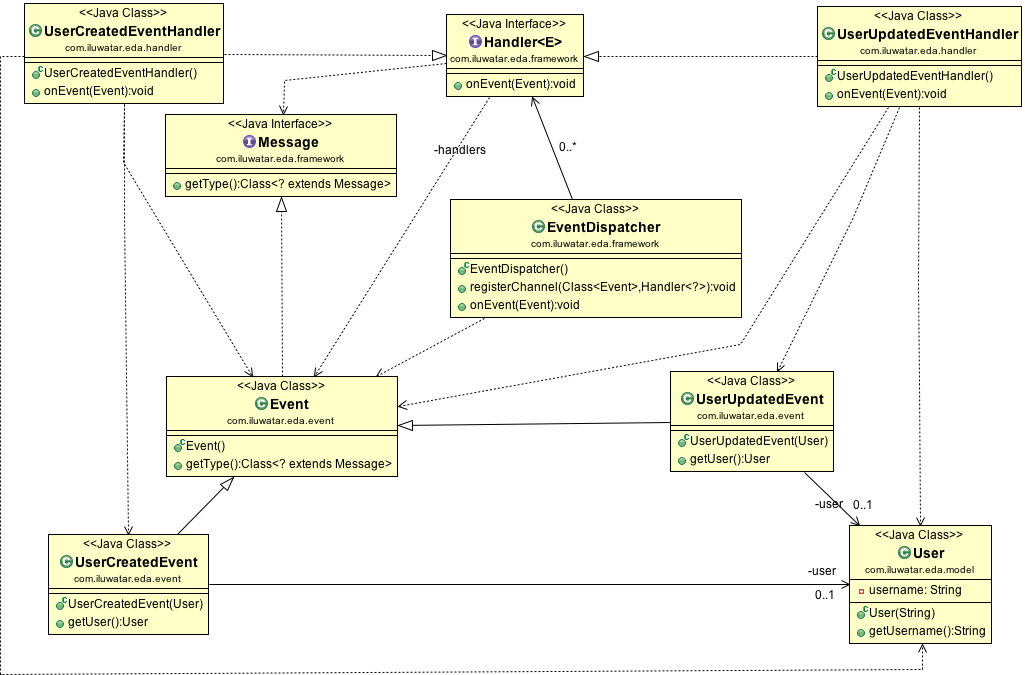
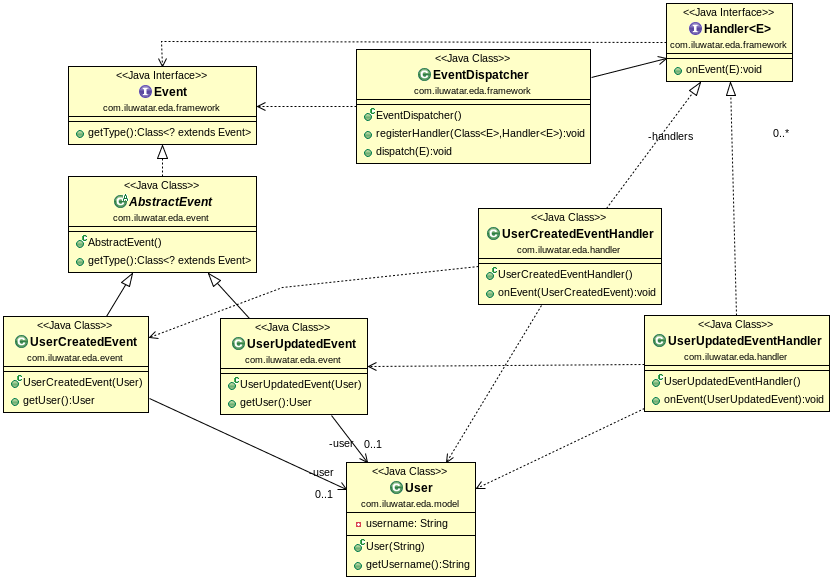
Event driven architecture refactored. 1. Renamed Message to Event and Event to AbstractEvent 2. Generified Event and Handler 3. Updated EventDispatcher to make unsafe configuration impossible 4. Updated UML diagram accordingly

diff --git a/event-driven-architecture/src/test/java/com/iluwatar/eda/framework/EventDispatcherTest.java b/event-driven-architecture/src/test/java/com/iluwatar/eda/framework/EventDispatcherTest.java
@@ -22,7 +22,6 @@
  */
 package com.iluwatar.eda.framework;
 
-import com.iluwatar.eda.framework.EventDispatcher;
 import com.iluwatar.eda.event.UserCreatedEvent;
 import com.iluwatar.eda.event.UserUpdatedEvent;
 import com.iluwatar.eda.handler.UserCreatedEventHandler;
@@ -49,8 +48,8 @@ public class EventDispatcherTest {
     EventDispatcher dispatcher = spy(new EventDispatcher());
     UserCreatedEventHandler userCreatedEventHandler = spy(new UserCreatedEventHandler());
     UserUpdatedEventHandler userUpdatedEventHandler = spy(new UserUpdatedEventHandler());
-    dispatcher.registerChannel(UserCreatedEvent.class, userCreatedEventHandler);
-    dispatcher.registerChannel(UserUpdatedEvent.class, userUpdatedEventHandler);
+    dispatcher.registerHandler(UserCreatedEvent.class, userCreatedEventHandler);
+    dispatcher.registerHandler(UserUpdatedEvent.class, userUpdatedEventHandler);
 
     User user = new User("iluwatar");
 
@@ -58,15 +57,14 @@ public class EventDispatcherTest {
     UserUpdatedEvent userUpdatedEvent = new UserUpdatedEvent(user);
 
     //fire a userCreatedEvent and verify that userCreatedEventHandler has been invoked.
-    dispatcher.onEvent(userCreatedEvent);
+    dispatcher.dispatch(userCreatedEvent);
     verify(userCreatedEventHandler).onEvent(userCreatedEvent);
-    verify(dispatcher).onEvent(userCreatedEvent);
+    verify(dispatcher).dispatch(userCreatedEvent);
 
     //fire a userCreatedEvent and verify that userUpdatedEventHandler has been invoked.
-    dispatcher.onEvent(userUpdatedEvent);
+    dispatcher.dispatch(userUpdatedEvent);
     verify(userUpdatedEventHandler).onEvent(userUpdatedEvent);
-    verify(dispatcher).onEvent(userUpdatedEvent);
+    verify(dispatcher).dispatch(userUpdatedEvent);
   }
-
 
 }

diff --git a/event-driven-architecture/src/main/java/com/iluwatar/eda/framework/EventDispatcher.java b/event-driven-architecture/src/main/java/com/iluwatar/eda/framework/EventDispatcher.java
@@ -22,19 +22,16 @@
  */
 package com.iluwatar.eda.framework;
 
-import com.iluwatar.eda.event.Event;
-
 import java.util.HashMap;
 import java.util.Map;
 
 /**
  * Handles the routing of {@link Event} messages to associated handlers.
  * A {@link HashMap} is used to store the association between events and their respective handlers.
- *
  */
 public class EventDispatcher {
 
-  private Map<Class<? extends Event>, Handler<?>> handlers;
+  private Map<Class<? extends Event>, Handler<? extends Event>> handlers;
 
   public EventDispatcher() {
     handlers = new HashMap<>();
@@ -46,8 +43,8 @@ public class EventDispatcher {
    * @param eventType The {@link Event} to be registered
    * @param handler   The {@link Handler} that will be handling the {@link Event}
    */
-  public void registerChannel(Class<? extends Event> eventType,
-                              Handler<?> handler) {
+  public <E extends Event> void registerHandler(Class<E> eventType,
+                                                Handler<E> handler) {
     handlers.put(eventType, handler);
   }
 
@@ -56,8 +53,12 @@ public class EventDispatcher {
    *
    * @param event The {@link Event} to be dispatched
    */
-  public void onEvent(Event event) {
-    handlers.get(event.getClass()).onEvent(event);
+  @SuppressWarnings("unchecked")
+  public <E extends Event> void dispatch(E event) {
+    Handler<E> handler = (Handler<E>) handlers.get(event.getClass());
+    if (handler != null) {
+      handler.onEvent(event);
+    }
   }
 
 }

diff --git a/event-driven-architecture/src/main/java/com/iluwatar/eda/event/AbstractEvent.java b/event-driven-architecture/src/main/java/com/iluwatar/eda/event/AbstractEvent.java
@@ -23,10 +23,10 @@
 package com.iluwatar.eda.event;
 
 import com.iluwatar.eda.framework.EventDispatcher;
-import com.iluwatar.eda.framework.Message;
+import com.iluwatar.eda.framework.Event;
 
 /**
- * The {@link Event} class serves as a base class for defining custom events happening with your
+ * The {@link AbstractEvent} class serves as a base class for defining custom events happening with your
  * system. In this example we have two types of events defined.
  * <ul>
  *   <li>{@link UserCreatedEvent} - used when a user is created</li>
@@ -34,16 +34,16 @@ import com.iluwatar.eda.framework.Message;
  * </ul>
  * Events can be distinguished using the {@link #getType() getType} method.
  */
-public class Event implements Message {
+public abstract class AbstractEvent implements Event {
 
   /**
    * Returns the event type as a {@link Class} object
    * In this example, this method is used by the {@link EventDispatcher} to
    * dispatch events depending on their type.
    *
-   * @return the Event type as a {@link Class}.
+   * @return the AbstractEvent type as a {@link Class}.
    */
-  public Class<? extends Message> getType() {
+  public Class<? extends Event> getType() {
     return getClass();
   }
 }

diff --git a/event-driven-architecture/src/main/java/com/iluwatar/eda/App.java b/event-driven-architecture/src/main/java/com/iluwatar/eda/App.java
@@ -22,9 +22,9 @@
  */
 package com.iluwatar.eda;
 
-import com.iluwatar.eda.event.Event;
 import com.iluwatar.eda.event.UserCreatedEvent;
 import com.iluwatar.eda.event.UserUpdatedEvent;
+import com.iluwatar.eda.framework.Event;
 import com.iluwatar.eda.framework.EventDispatcher;
 import com.iluwatar.eda.handler.UserCreatedEventHandler;
 import com.iluwatar.eda.handler.UserUpdatedEventHandler;
@@ -53,12 +53,12 @@ public class App {
   public static void main(String[] args) {
 
     EventDispatcher dispatcher = new EventDispatcher();
-    dispatcher.registerChannel(UserCreatedEvent.class, new UserCreatedEventHandler());
-    dispatcher.registerChannel(UserUpdatedEvent.class, new UserUpdatedEventHandler());
+    dispatcher.registerHandler(UserCreatedEvent.class, new UserCreatedEventHandler());
+    dispatcher.registerHandler(UserUpdatedEvent.class, new UserUpdatedEventHandler());
 
     User user = new User("iluwatar");
-    dispatcher.onEvent(new UserCreatedEvent(user));
-    dispatcher.onEvent(new UserUpdatedEvent(user));
+    dispatcher.dispatch(new UserCreatedEvent(user));
+    dispatcher.dispatch(new UserUpdatedEvent(user));
   }
 
 }

diff --git a/event-driven-architecture/src/main/java/com/iluwatar/eda/handler/UserCreatedEventHandler.java b/event-driven-architecture/src/main/java/com/iluwatar/eda/handler/UserCreatedEventHandler.java
@@ -22,7 +22,6 @@
  */
 package com.iluwatar.eda.handler;
 
-import com.iluwatar.eda.event.Event;
 import com.iluwatar.eda.event.UserCreatedEvent;
 import com.iluwatar.eda.framework.Handler;
 
@@ -32,9 +31,10 @@ import com.iluwatar.eda.framework.Handler;
 public class UserCreatedEventHandler implements Handler<UserCreatedEvent> {
 
   @Override
-  public void onEvent(Event message) {
+  public void onEvent(UserCreatedEvent event) {
 
-    UserCreatedEvent userCreatedEvent = (UserCreatedEvent) message;
-    System.out.printf("User with %s has been Created!", userCreatedEvent.getUser().getUsername());
+    System.out.println(String.format(
+            "User '%s' has been Created!", event.getUser().getUsername()));
   }
+
 }

diff --git a/event-driven-architecture/src/main/java/com/iluwatar/eda/handler/UserUpdatedEventHandler.java b/event-driven-architecture/src/main/java/com/iluwatar/eda/handler/UserUpdatedEventHandler.java
@@ -22,7 +22,6 @@
  */
 package com.iluwatar.eda.handler;
 
-import com.iluwatar.eda.event.Event;
 import com.iluwatar.eda.event.UserUpdatedEvent;
 import com.iluwatar.eda.framework.Handler;
 
@@ -32,9 +31,9 @@ import com.iluwatar.eda.framework.Handler;
 public class UserUpdatedEventHandler implements Handler<UserUpdatedEvent> {
 
   @Override
-  public void onEvent(Event message) {
+  public void onEvent(UserUpdatedEvent event) {
 
-    UserUpdatedEvent userUpdatedEvent = (UserUpdatedEvent) message;
-    System.out.printf("User with %s has been Updated!", userUpdatedEvent.getUser().getUsername());
+    System.out.println(String.format(
+            "User '%s' has been Updated!", event.getUser().getUsername()));
   }
 }

diff --git a/event-driven-architecture/src/main/java/com/iluwatar/eda/framework/Handler.java b/event-driven-architecture/src/main/java/com/iluwatar/eda/framework/Handler.java
@@ -22,13 +22,11 @@
  */
 package com.iluwatar.eda.framework;
 
-import com.iluwatar.eda.event.Event;
-
 /**
  * This interface can be implemented to handle different types of messages.
  * Every handler is responsible for a single of type message
  */
-public interface Handler<E extends Message> {
+public interface Handler<E extends Event> {
 
   /**
    * The onEvent method should implement and handle behavior related to the event.
@@ -36,5 +34,5 @@ public interface Handler<E extends Message> {
    * a queue to be consumed by other sub systems.
    * @param event the {@link Event} object to be handled.
    */
-  void onEvent(Event event);
+  void onEvent(E event);
 }

diff --git a/event-driven-architecture/src/test/java/com/iluwatar/eda/event/UserCreatedEventTest.java b/event-driven-architecture/src/test/java/com/iluwatar/eda/event/UserCreatedEventTest.java
@@ -29,13 +29,13 @@ import org.junit.Test;
 import static org.junit.Assert.assertEquals;
 
 /**
- * {@link UserCreatedEventTest} tests and verifies {@link Event} behaviour.
+ * {@link UserCreatedEventTest} tests and verifies {@link AbstractEvent} behaviour.
  */
 public class UserCreatedEventTest {
 
   /**
-   * This unit test should correctly return the {@link Event} class type when calling the
-   * {@link Event#getType() getType} method.
+   * This unit test should correctly return the {@link AbstractEvent} class type when calling the
+   * {@link AbstractEvent#getType() getType} method.
    */
   @Test
   public void testGetEventType() {

diff --git a/event-driven-architecture/src/main/java/com/iluwatar/eda/framework/Event.java b/event-driven-architecture/src/main/java/com/iluwatar/eda/framework/Event.java
@@ -23,15 +23,15 @@
 package com.iluwatar.eda.framework;
 
 /**
- * A {@link Message} is an object with a specific type that is associated
+ * A {@link Event} is an object with a specific type that is associated
  * to a specific {@link Handler}.
  */
-public interface Message {
+public interface Event {
 
   /**
    * Returns the message type as a {@link Class} object. In this example the message type is
    * used to handle events by their type.
    * @return the message type as a {@link Class}.
    */
-  Class<? extends Message> getType();
+  Class<? extends Event> getType();
 }

diff --git a/event-driven-architecture/src/main/java/com/iluwatar/eda/event/UserCreatedEvent.java b/event-driven-architecture/src/main/java/com/iluwatar/eda/event/UserCreatedEvent.java
@@ -29,7 +29,7 @@ import com.iluwatar.eda.model.User;
  * This class can be extended to contain details about the user has been created. In this example,
  * the entire {@link User} object is passed on as data with the event.
  */
-public class UserCreatedEvent extends Event {
+public class UserCreatedEvent extends AbstractEvent {
 
   private User user;
 

diff --git a/event-driven-architecture/src/main/java/com/iluwatar/eda/event/UserUpdatedEvent.java b/event-driven-architecture/src/main/java/com/iluwatar/eda/event/UserUpdatedEvent.java
@@ -29,7 +29,7 @@ import com.iluwatar.eda.model.User;
  * This class can be extended to contain details about the user has been updated. In this example,
  * the entire {@link User} object is passed on as data with the event.
  */
-public class UserUpdatedEvent extends Event {
+public class UserUpdatedEvent extends AbstractEvent {
 
   private User user;
 
